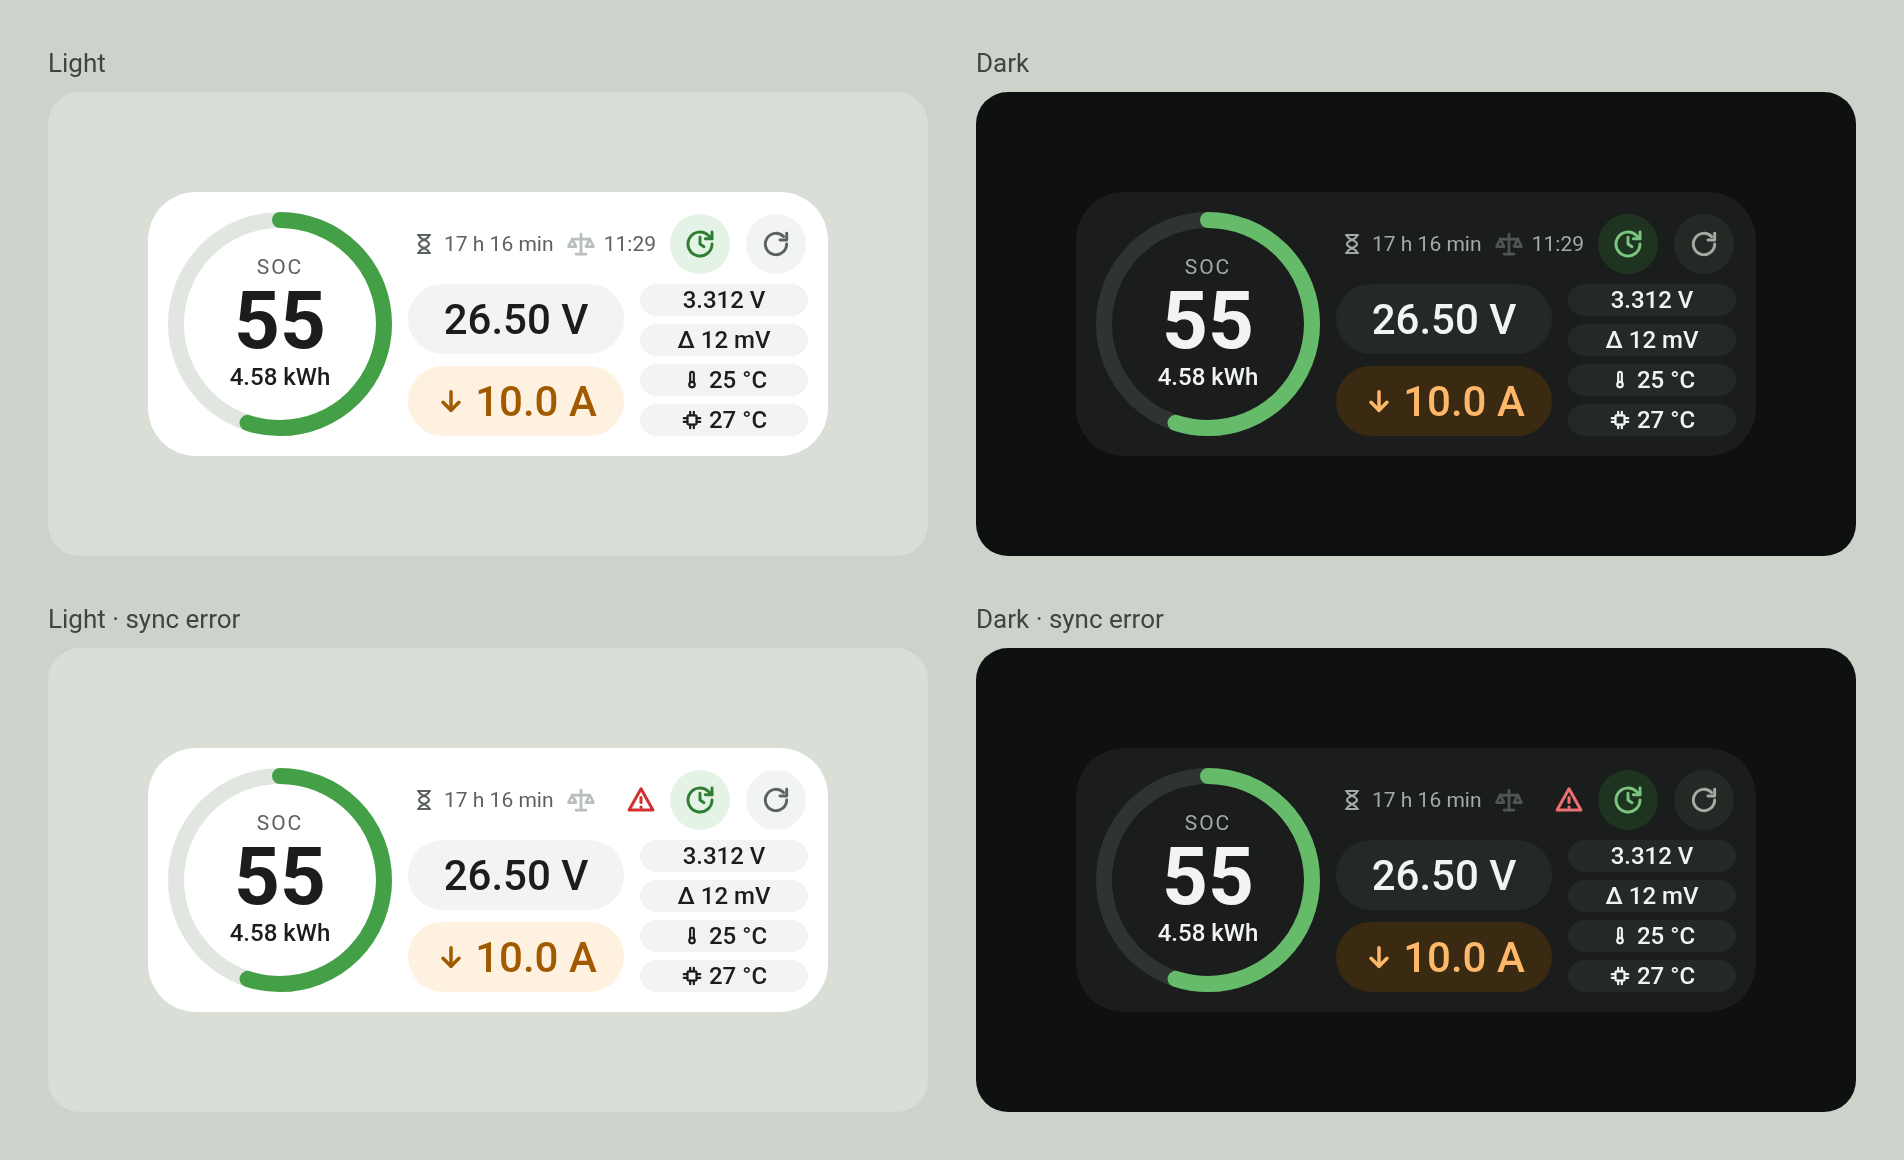
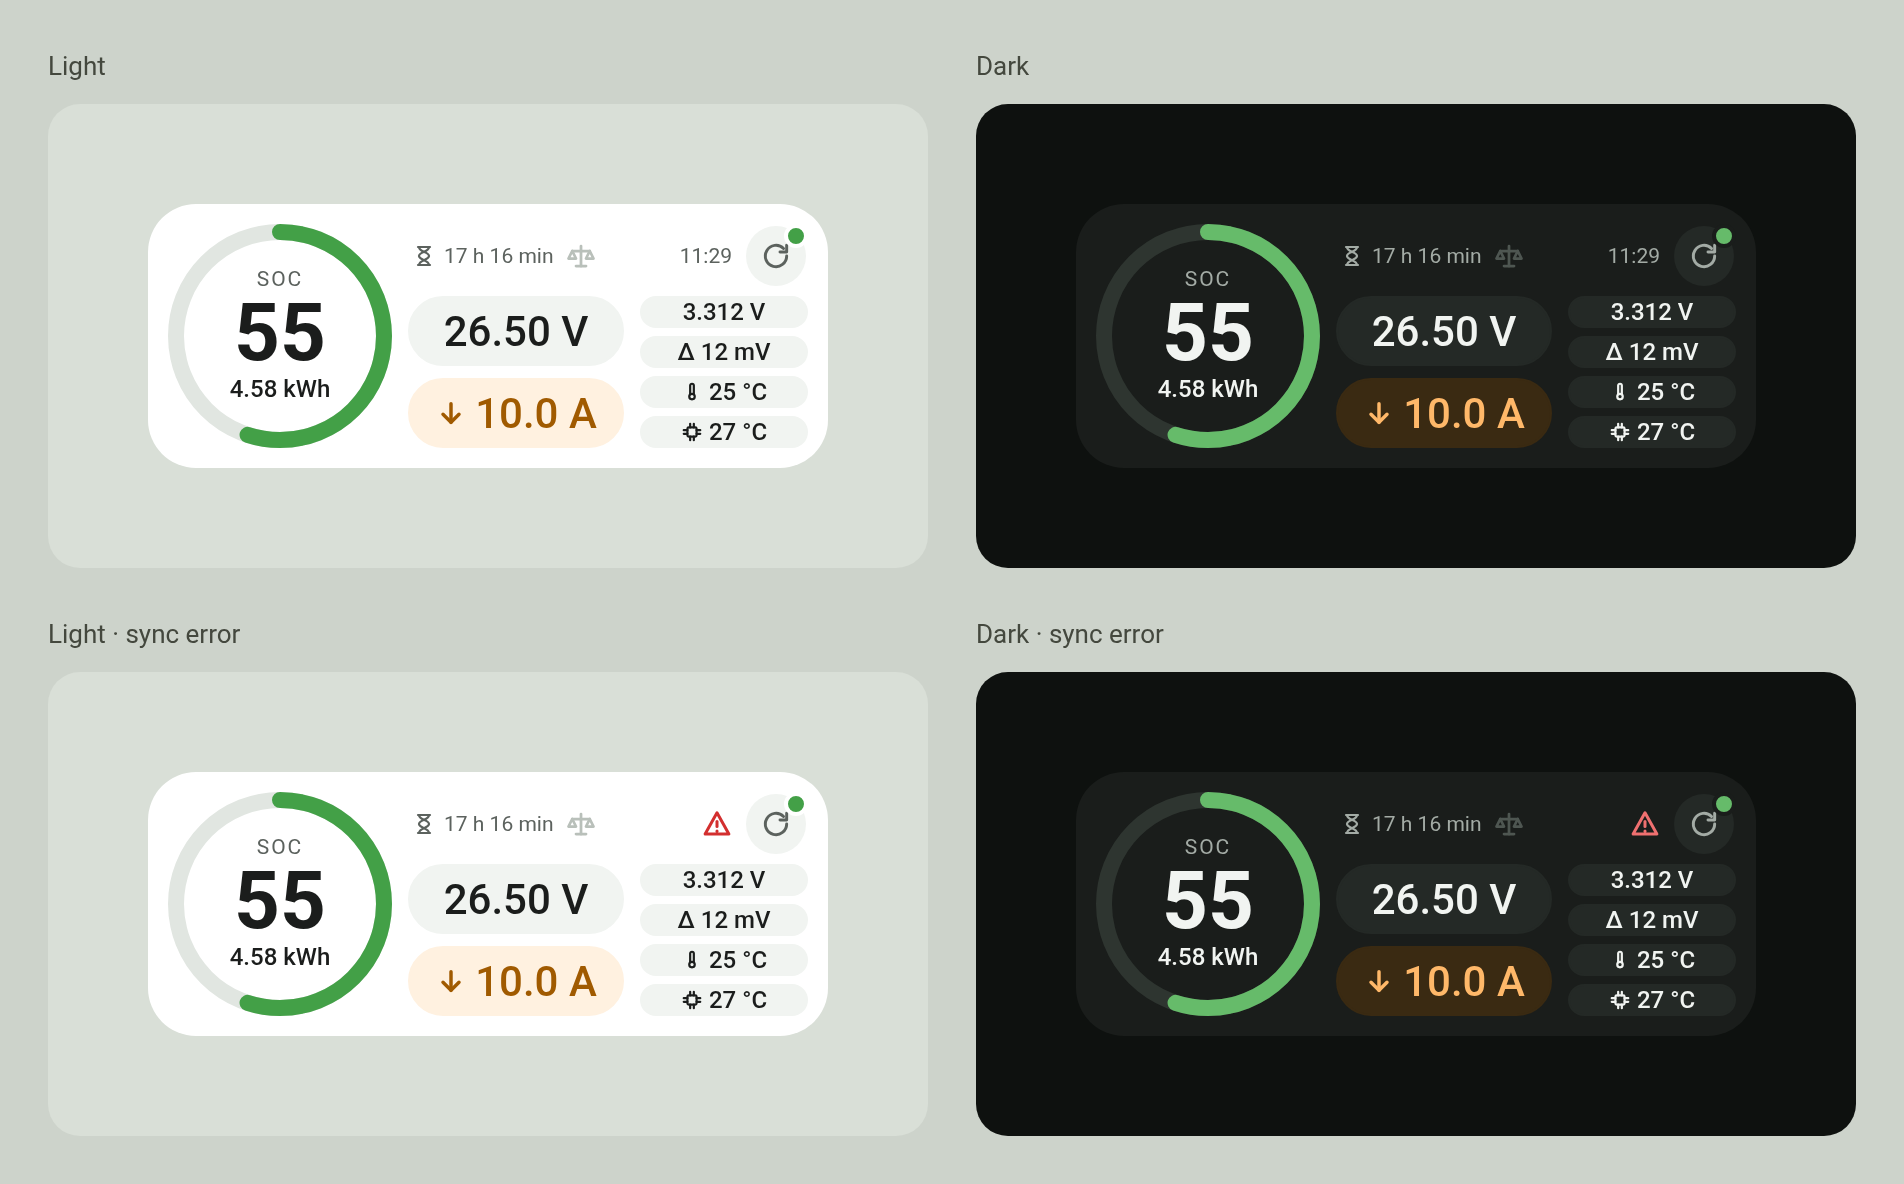
docs(design): Show ↻ and the freshness dot on every size

diff --git a/docs/design/README.md b/docs/design/README.md
@@ -22,7 +22,9 @@ keeps the older versions of this folder (v4 up to commit d1cf5fc:
 | `widget-4x3.png` | 4×3, card 267 × 205 dp: the same four frames |
 | `widget-5x3.png` | 5×3, card 340 × 205 dp: the same four frames |
 
-The PNGs are rendered at 2× scale; 1 px of the design = 1 dp.
+The PNGs are rendered at 2× scale; 1 px of the design = 1 dp. Since
+spec 0016 they show the v14 top row (one ↻ with the freshness dot, see
+"Refresh"); the rest is v5.
 
 ![Widget 4×2](widget-4x2.png)
 ![Widget 5×2](widget-5x2.png)
@@ -211,10 +213,10 @@ light and dark, icon + word in English and Ukrainian) and at 3×1
 
 | File | What it is |
 |---|---|
-| `inverter-3x1.png` | 3×1, card 194 × 59 dp: eight frames (see the captions) |
+| `inverter-3x1.png` | 3×1, card 194 × 59 dp: eight frames (see the captions), with ↻ and the freshness dot (v14) |
 | `inverter-4x1.png` | 4×1, card 267 × 59 dp: the same eight frames |
 | `inverter-5x1.png` | 5×1, card 340 × 59 dp: the same eight frames |
-| `inverter-modes.png` | Every mode (rows) in five looks (columns), cards only |
+| `inverter-modes.png` | Every mode (rows) in five looks (columns), cards only; drawn before ↻ (v7): it shows the modes, not the layout |
 
 Rendered at 2× scale, like the battery pictures.
 
